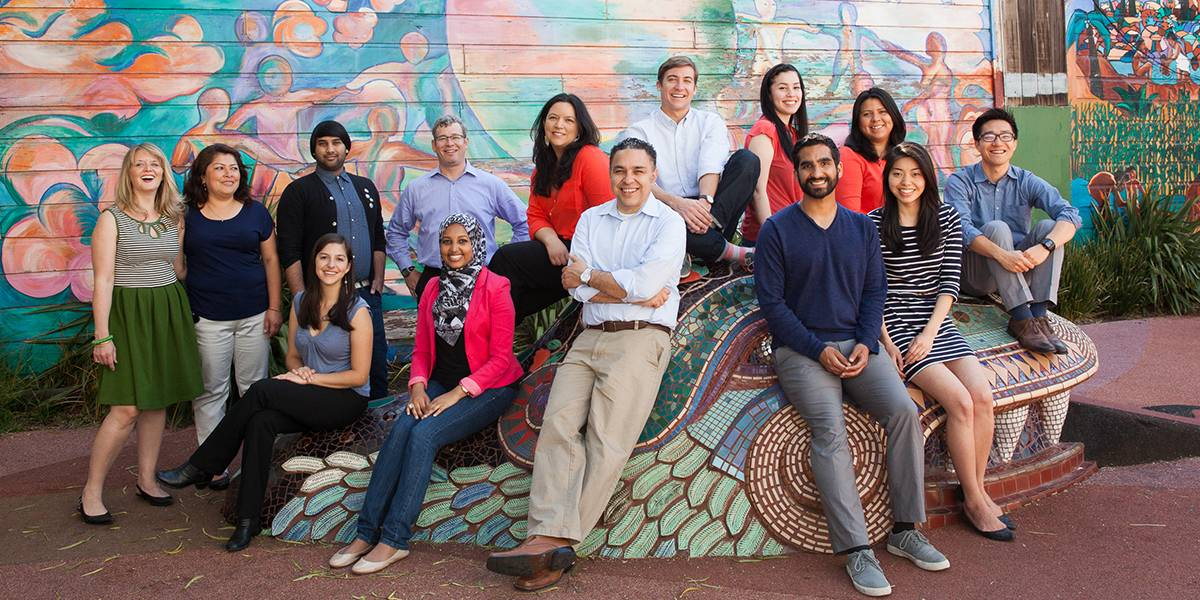
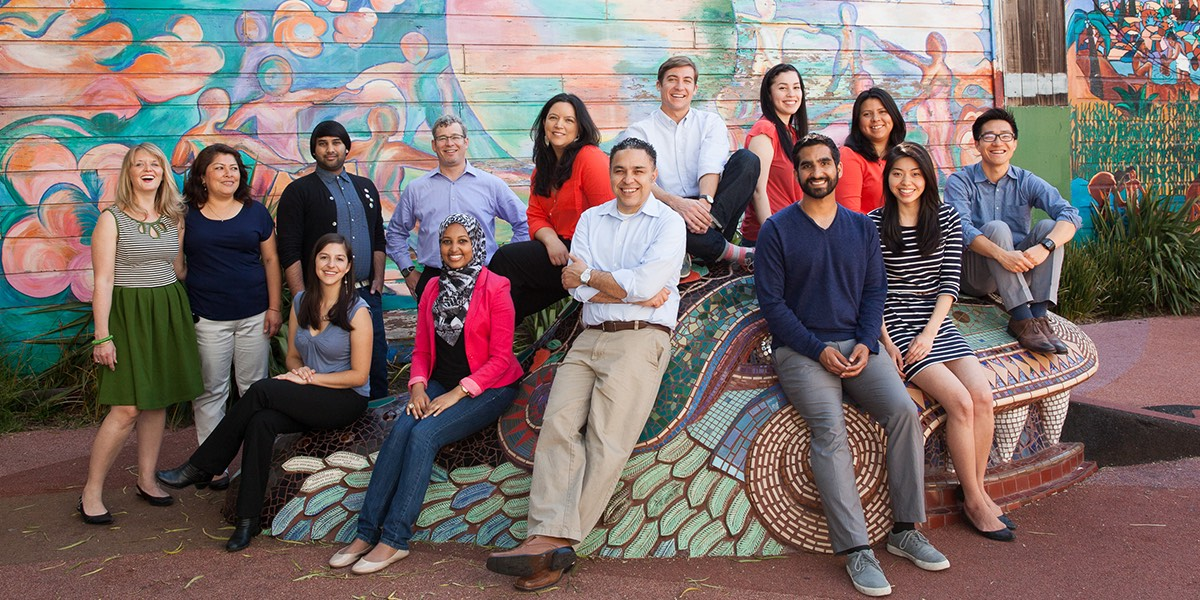
Update staff image
Add in link to 990 forms

diff --git a/index.html b/index.html
@@ -264,6 +264,14 @@
           <div class="financials-caption"><h2>2014 Expenses</h2><p>We keep our administrative and development costs low so that we can focus on running our high-impact programs. Operating as a lean, sustainable organization with one office is key to our success.</p></div>
         </div>
       </div>
+      Check out our 990 Forms: 
+       <a href="https://missionassetfund.app.box.com/s/j5pbe17qufty8uzxayh4/1/298201352/23558331921/1" target="_blank">2013</a>, 
+       <a href="https://missionassetfund.app.box.com/s/j5pbe17qufty8uzxayh4/1/298201352/9935592216/1" target="_blank">2012</a>, 
+       <a href="https://missionassetfund.app.box.com/s/j5pbe17qufty8uzxayh4/1/298201352/2939488743/1" target="_blank">2011</a>, 
+       <a href="https://missionassetfund.app.box.com/s/j5pbe17qufty8uzxayh4/1/298201352/2365691086/1" target="_blank">2010</a>, 
+       <a href="https://missionassetfund.app.box.com/s/j5pbe17qufty8uzxayh4/1/298201352/2365687214/1" target="_blank">2009</a>, 
+       <a href="https://missionassetfund.app.box.com/s/j5pbe17qufty8uzxayh4/1/298201352/5512974186/1" target="_blank">2008</a>, 
+       <a href="https://missionassetfund.app.box.com/s/j5pbe17qufty8uzxayh4/1/298201352/282468820/1" target="_blank">2007</a>
     </div>
   </div><!-- looking ahead --><div class="maf-grey">
     <div class="banner left-align-text looking-ahead-content">
